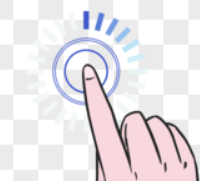
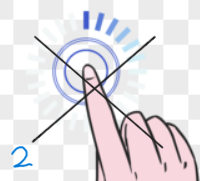
添加了行动方箭头

diff --git a/gomoku.py b/gomoku.py
@@ -29,15 +29,17 @@ class Gomoku:
         self.user1 = User()  # user1为黑方
         self.user1.image1 = self.cards.ability1_image  # 黑方第一个技能图像
         self.user2 = User()  # user2为白方
-        self.user2.image1 = self.cards.ability1_image  # 黑方第一个技能图像
+        self.user2.image1 = self.cards.ability3_image  # 黑方第一个技能图像
         # 创建一个image对象
         self.image = Image()
         self.blackchess = self.image.image2  # 创建一个黑棋图像对象
         self.whitechess = self.image.image3  # 创建一个白棋图像对象
-        self.background = self.image.image5
+        self.background = self.image.image5  # 创建一个背景图像对象
+        self.referto = self.image.image6  # 创建一个箭头对象
         self.font1 = pygame.font.Font(None, 48)  # 创建一个字体对象,用来显示黑方分数
         self.font2 = pygame.font.Font(None, 48)  # 创建一个字体对象，用来显示白方分数
         self.font3 = pygame.font.Font(None, 80)  # 创建一个字体对象，用来显示回合
+        self.font4 = pygame.font.Font(None, 48)  # 创建一个字体对象，用来显示操作方
         # 创建一个Music对象，指定音频文件路径
         self.music = Music("music/play_chess.mp3")
         # 播放背景音乐
@@ -60,6 +62,7 @@ class Gomoku:
         self.w_color = self.settings.white_color  # 白棋颜色
         self.b_color = self.settings.black_color  # 黑棋颜色
         self.flag = False
+        self.k = 0
         # 初始化技能按下标志
         self.click_registered1_1 = 3
         self.click_registered1_2 = 3
@@ -77,12 +80,10 @@ class Gomoku:
             # 渲染文本，第一个参数是文本内容，第二个参数是是否抗锯齿，第三个参数是文本颜色
             self.text_surface1 = self.font1.render(f'BLACK SCORE: {self.user1.score[self.round]}', True,
                                                    self.settings.black_color)
-            # 渲染文本，第一个参数是文本内容，第二个参数是是否抗锯齿，第三个参数是文本颜色
             self.text_surface2 = self.font2.render(f'WHITE SCORE: {self.user2.score[self.round]}', True,
                                                    self.settings.black_color)
-            # 渲染文本，第一个参数是文本内容，第二个参数是是否抗锯齿，第三个参数是文本颜色
-            self.text_surface3 = self.font3.render(f'ROUND{self.round}', True,
-                                                   self.settings.black_color)
+            self.text_surface3 = self.font3.render(f'ROUND{self.round}', True, self.settings.black_color)
+            self.text_surface4 = self.font4.render(f'This', True, self.settings.black_color)
             # 生成黑方score
             self.image.blit(self.screen, self.text_surface1, 100, 40)
             # 生成黑方score
@@ -97,6 +98,13 @@ class Gomoku:
             self.image.blit(self.screen, self.user2.image1, 1272, 215)
             # 生成白方技能
 
+            # 生成箭头
+            if (len(self.over_pos) + self.k) % 2 == 0:  # 轮到黑子
+                self.image.blit(self.screen, self.referto, 214, self.h - 124)
+                self.image.blit(self.screen, self.text_surface4, 214 + 40, self.h - 164)
+            else:  # 轮到白子
+                self.image.blit(self.screen, self.referto, 1265 - 144, self.h - 124)
+                self.image.blit(self.screen, self.text_surface4, 1265-144+40, self.h - 164)
             # 生成棋盘
             self.gamelogic.drawchessboard(self.b, self.diff, self.w, self.m, self.screen, self.h,
                                           self.settings.line_color)
@@ -149,7 +157,7 @@ class Gomoku:
                 if keys_pressed[0] and self.tim == 0:
                     self.flag = True
                     if self.gamelogic.check_over_pos(x, y, self.over_pos):  # 判断是否可以落子，再落子
-                        if len(self.over_pos) % 2 == 0:  # 黑子
+                        if (len(self.over_pos) + self.k) % 2 == 0:  # 黑子
                             self.over_pos.append([[x, y], self.b_color])
                         else:  # 白子
                             self.over_pos.append([[x, y], self.w_color])
@@ -165,6 +173,7 @@ class Gomoku:
                     if self.click_check_cards_board(event.pos[0], event.pos[1]):
                         if self.side == 1 and self.n == 1 and self.click_registered1_1 > 0:
                             self.click_registered1_1 -= 1
+                            self.k += 2
                             count = 2
                             for i in range(len(self.over_pos) - 1, -1, -1):
                                 if self.over_pos[i][1] == self.w_color and count > 0:  # 假设我们要移除白色棋子
@@ -174,13 +183,14 @@ class Gomoku:
                             self.click_registered1_2 -= 1
                         if self.side == 1 and self.n == 3 and self.click_registered1_3 > 0:
                             self.click_registered1_3 -= 1
-                            count = 2
+                        if self.side == 2 and self.n == 1 and self.click_registered2_1 > 0:
+                            self.click_registered2_1 -= 1
+                            self.k += 1
+                            count = 1
                             for i in range(len(self.over_pos) - 1, -1, -1):
                                 if self.over_pos[i][1] == self.b_color and count > 0:  # 假设我们要移除白色棋子
                                     self.over_pos.pop(i)
                                     count -= 1
-                        if self.side == 2 and self.n == 1 and self.click_registered2_1 > 0:
-                            self.click_registered2_1 -= 1
                         if self.side == 2 and self.n == 2 and self.click_registered2_2 > 0:
                             self.click_registered2_2 -= 1
                         if self.side == 2 and self.n == 3 and self.click_registered2_3 > 0:

diff --git a/cards.py b/cards.py
@@ -5,8 +5,7 @@ class Cards:
     def __init__(self):
         self.ability1_image = pygame.image.load('image/ability1.png')
         self.ability2 = None
-        self.ability3 = None
-        self.ability3_image = None
+        self.ability3_image = pygame.image.load('image/ability3.png')
         self.ability4 = None
         self.ability5 = None
         self.ability6 = None

diff --git a/image.py b/image.py
@@ -9,6 +9,7 @@ class Image:
         self.image3 = pygame.image.load('image/whitechess.png')
         self.image4 = pygame.image.load('image/card.png')
         self.image5 = pygame.image.load('image/background.png')
+        self.image6 = pygame.image.load('image/referto.png')
 
     def find_pos(self, x, y, b, diff, w, h, m, distance):
         # 可以落子的位置
